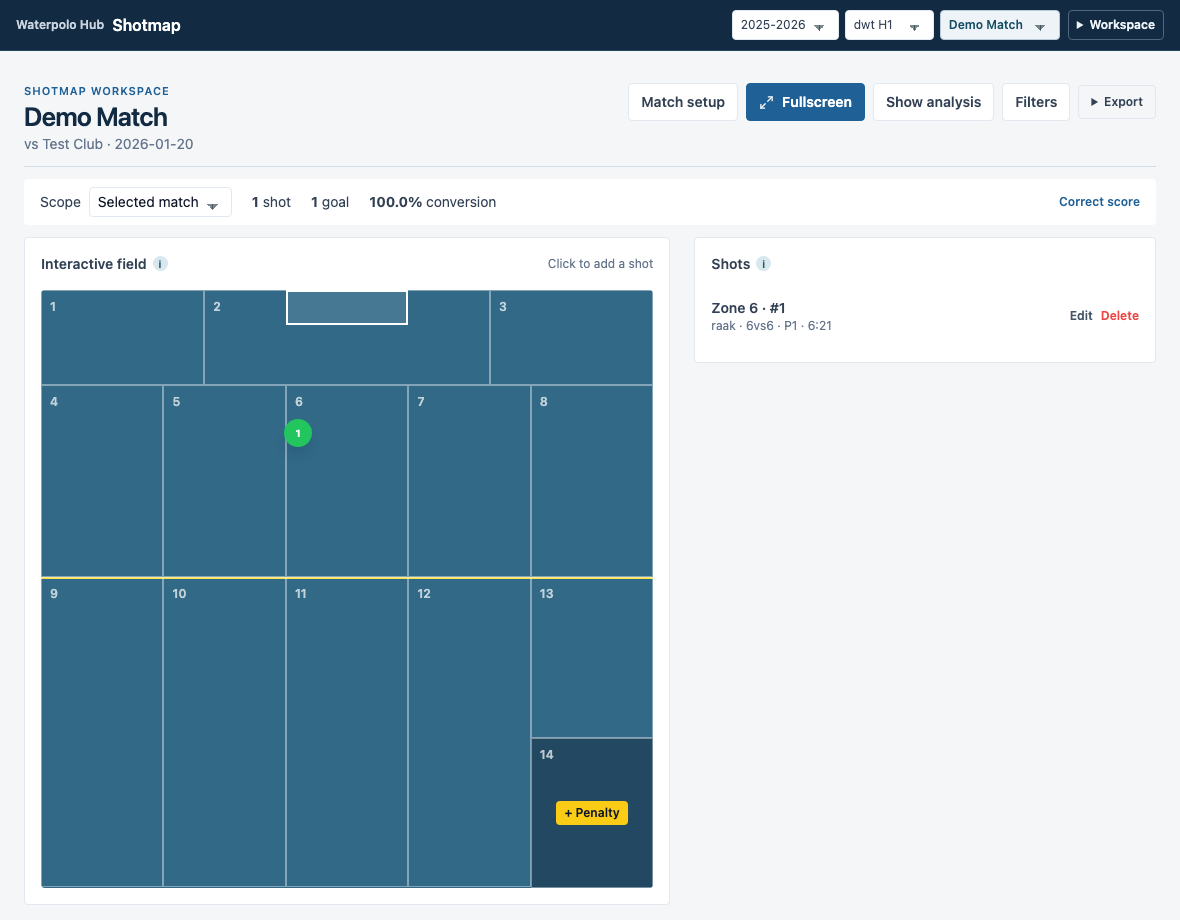
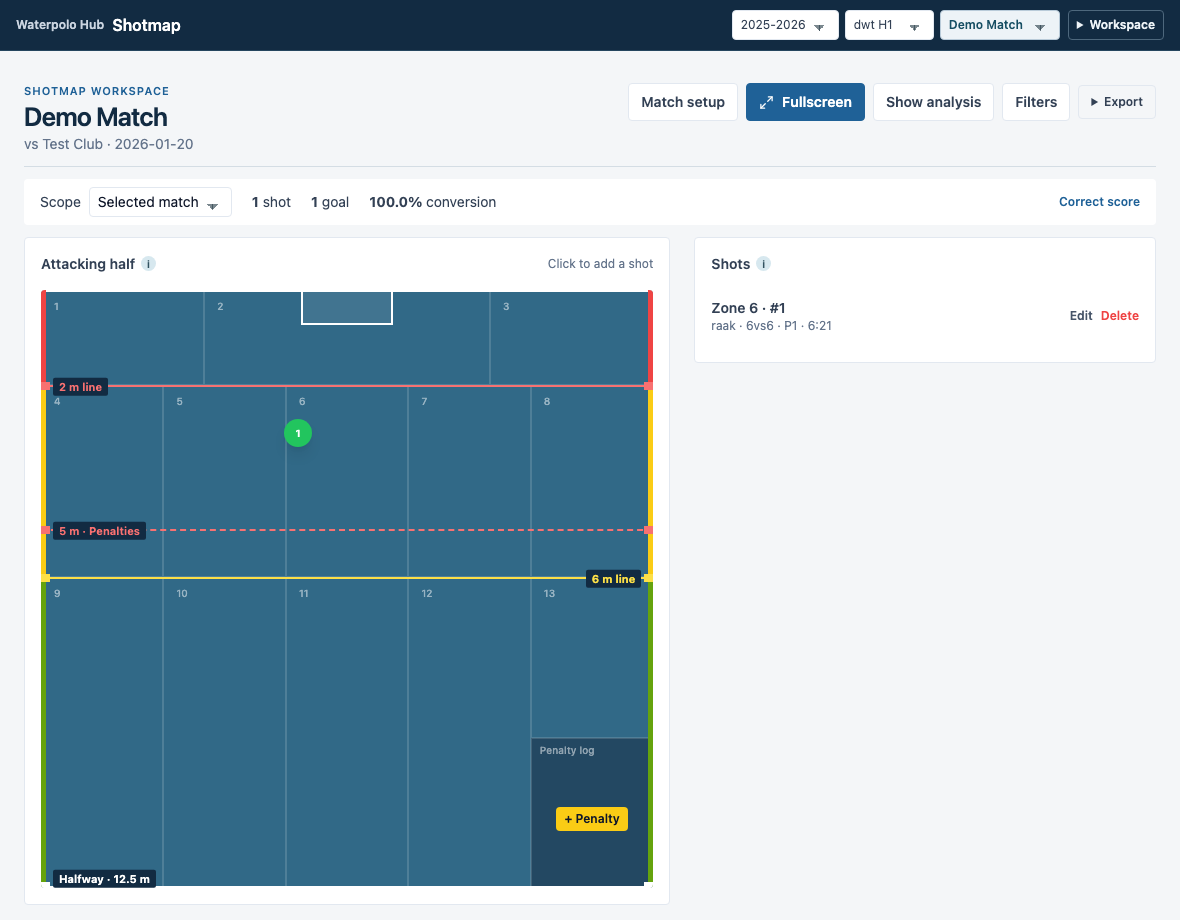
Add official water polo field markings

diff --git a/src/modules/shotmap/ShotmapView.jsx b/src/modules/shotmap/ShotmapView.jsx
@@ -8,10 +8,11 @@ import ModuleEmptyState from '../../components/ModuleEmptyState';
 import ModuleHeader from '../../components/ModuleHeader';
 import StatTooltipLabel from '../../components/StatTooltipLabel';
 import ToolbarButton from '../../components/ToolbarButton';
+import FieldMarkings from './FieldMarkings';
 
 const SHOTMAP_TOOLTIPS = {
   interactiveField:
-    'Click on the field to create a shot draft. Zone 14 is reserved for penalties via the + Penalty button.',
+    'Attacking half of a 25 m field, from goal to halfway (12.5 m). Colored guides show the official distances; actual pool markings are on the sides. The dashed 5 m guide is for penalties. Click to log a shot; use + Penalty for penalties.',
   result: 'Shot outcome: Goal (scored), Saved (keeper save), or Miss.',
   attackType: 'Situation at time of shot: even strength, powerplay, or penalty.',
   period: 'Quarter number in the match timeline.',
@@ -1047,7 +1048,7 @@ const ShotmapView = ({
             <div className="flex items-center justify-between">
               <h3 className={`text-sm font-semibold ${liveMode ? 'text-white' : 'text-slate-700'}`}>
                 <StatTooltipLabel
-                  label="Interactive field"
+                  label="Attacking half"
                   tooltip={SHOTMAP_TOOLTIPS.interactiveField}
                   enabled={showTooltips}
                 />
@@ -1065,13 +1066,10 @@ const ShotmapView = ({
                 }`}
                 onClick={handleFieldClick}
               >
-                <div className="absolute left-0 top-[48%] h-[2px] w-full bg-yellow-300" />
-                <div className="absolute left-[40%] top-0 h-[6%] w-[20%] border-2 border-white bg-white/10" />
-
                 {zones.map((zone) => (
                   <div
                     key={zone.id}
-                    className={`absolute border border-white/40 ${zone.id === 14 ? 'bg-slate-900/40' : ''}`}
+                    className={`absolute border border-white/15 ${zone.id === 14 ? 'bg-slate-900/40' : ''}`}
                     style={{
                       left: `${zone.left}%`,
                       top: `${zone.top}%`,
@@ -1079,11 +1077,11 @@ const ShotmapView = ({
                       height: `${zone.height}%`
                     }}
                   >
-                    <div className="absolute left-2 top-2 text-xs font-semibold text-white/70">
-                      {zone.label}
+                    <div className={`absolute text-[10px] font-medium text-white/50 ${zone.id === 14 ? 'left-2 top-1' : 'left-3 top-2'}`}>
+                      {zone.id === 14 ? 'Penalty log' : zone.label}
                     </div>
                     {zone.id === 14 && (
-                      <div className="absolute inset-0 grid grid-cols-3 place-items-center gap-1 p-2">
+                      <div className="absolute inset-0 grid grid-cols-3 place-items-center gap-1 p-2 pt-5">
                         <button
                           className={`col-span-3 rounded px-2 py-1 text-xs font-semibold ${
                             seasonMode
@@ -1102,6 +1100,8 @@ const ShotmapView = ({
                     )}
                   </div>
                 ))}
+
+                <FieldMarkings />
 
                 {filteredShots.map((shot) => {
                   const isPenalty = shot.attackType === 'strafworp';

diff --git a/src/index.css b/src/index.css
@@ -143,6 +143,26 @@ button:disabled { cursor: not-allowed; }
 .wp-module-header h2 { letter-spacing: -.025em; color: var(--navy); }
 .wp-shot-row:last-child { border-bottom: 0; }
 .wp-shot-row:hover { background: #f8fafb; }
+
+.wp-field-markings { position: absolute; inset: 0; pointer-events: none; }
+.wp-field-goal-line { position: absolute; inset: 0 0 auto; border-top: 2px solid #fff; }
+.wp-field-goal { position: absolute; left: 42.5%; top: 0; width: 15%; height: 6%; border: 2px solid #fff; background: rgba(255,255,255,.08); }
+.wp-field-rope { position: absolute; top: 0; bottom: 0; width: 5px; }
+.wp-field-rope-left { left: 0; }
+.wp-field-rope-right { right: 0; }
+.wp-field-guide { position: absolute; left: 0; right: 0; border-top: 2px solid; }
+.wp-field-guide::before, .wp-field-guide::after { content: ''; position: absolute; top: -5px; width: 9px; height: 8px; background: currentColor; }
+.wp-field-guide::before { left: 0; }
+.wp-field-guide::after { right: 0; }
+.wp-field-guide-two, .wp-field-guide-penalty { color: #f87171; }
+.wp-field-guide-penalty { border-top-style: dashed; }
+.wp-field-guide-six { color: #fde047; }
+.wp-field-guide-halfway { color: #fff; transform: translateY(-2px); }
+.wp-field-guide-label { position: absolute; top: 0; transform: translateY(-50%); padding: 2px 6px; border-radius: 2px; background: #122b42; font-size: 11px; font-weight: 650; line-height: 1.3; white-space: nowrap; }
+.wp-field-label-left { left: 12px; }
+.wp-field-label-right { right: 12px; }
+.wp-field-guide-halfway .wp-field-guide-label { transform: translateY(-100%); }
+.wp-field-guide-halfway::before, .wp-field-guide-halfway::after { top: -6px; }
 .wp-public-page { min-height: 100vh; padding: 64px 24px; background: #edf2f5; }
 .wp-public-layout { max-width: 1180px; margin: 0 auto; display: grid; grid-template-columns: minmax(0, 1.35fr) minmax(320px, 1fr); gap: 56px 80px; align-items: start; }
 .wp-brand { display: flex; align-items: center; gap: 10px; color: var(--navy); font-size: 18px; font-weight: 700; margin-bottom: 56px; }

diff --git a/tests/e2e/workflows.spec.js b/tests/e2e/workflows.spec.js
@@ -181,3 +181,30 @@ test('fullscreen fallback keeps season scope and exits cleanly', async ({ page }
   await expect(page.getByLabel('Shotmap scope')).toHaveValue('season');
   await expect(page.locator('body')).not.toHaveCSS('overflow', 'hidden');
 });
+
+test('field distance guides are labeled, positioned correctly, and allow shot entry', async ({ page }) => {
+  await openWorkspace(page);
+  const field = page.getByTestId('shotmap-field');
+  for (const [kind, fraction, label] of [
+    ['two', 0.16, '2 m line'],
+    ['penalty', 0.40, '5 m · Penalties'],
+    ['six', 0.48, '6 m line'],
+    ['halfway', 1, 'Halfway · 12.5 m']
+  ]) {
+    const line = page.getByTestId(`field-line-${kind}`);
+    await expect(line).toContainText(label);
+    const height = await field.evaluate((el) => el.clientHeight);
+    const offset = await line.evaluate((el) => parseFloat(getComputedStyle(el).top));
+    expect(Math.abs(offset / height - fraction)).toBeLessThan(0.005);
+  }
+  await expect(page.getByTestId('field-line-penalty')).toHaveCSS('border-top-style', 'dashed');
+  const box = await field.boundingBox();
+  await field.click({ position: { x: box.width / 2, y: box.height * 0.4 } });
+  await expect(page.getByRole('heading', { name: 'Shot details' })).toBeVisible();
+  await page.getByRole('button', { name: 'Close', exact: true }).click();
+  await page.setViewportSize({ width: 844, height: 390 });
+  await page.getByRole('button', { name: 'Fullscreen', exact: true }).click();
+  for (const kind of ['two', 'penalty', 'six', 'halfway']) {
+    await expect(page.getByTestId(`field-line-${kind}`).locator('span')).toBeInViewport();
+  }
+});

diff --git a/src/modules/shotmap/FieldMarkings.jsx b/src/modules/shotmap/FieldMarkings.jsx
@@ -1,0 +1,38 @@
+import React from 'react';
+
+// World Aquatics, February 2026: Part Six, 20.2, 16.2 and Appendix 1.
+// https://www.worldaquatics.com/news/3090417/competition-regulations
+// The existing shot coordinates span the attacking half of a 25 m field.
+const HALF_LENGTH_METRES = 12.5;
+const guides = [
+  { metres: 2, label: '2 m line', kind: 'two', side: 'left' },
+  { metres: 5, label: '5 m · Penalties', kind: 'penalty', side: 'left' },
+  { metres: 6, label: '6 m line', kind: 'six', side: 'right' },
+  { metres: HALF_LENGTH_METRES, label: 'Halfway · 12.5 m', kind: 'halfway', side: 'left' }
+];
+
+const FieldMarkings = () => (
+  <div className="wp-field-markings" aria-label="Attacking half: official distance markings for a 25 metre field">
+    <div className="wp-field-goal-line" />
+    <div className="wp-field-goal" aria-label="Goal" />
+    {['left', 'right'].map((side) => (
+      <div key={side} className={`wp-field-rope wp-field-rope-${side}`}>
+        <div style={{ height: '16%', background: '#ef4444' }} />
+        <div style={{ height: '32%', background: '#facc15' }} />
+        <div style={{ height: '52%', background: '#65a30d' }} />
+      </div>
+    ))}
+    {guides.map(({ metres, label, kind, side }) => (
+      <div
+        key={kind}
+        data-testid={`field-line-${kind}`}
+        className={`wp-field-guide wp-field-guide-${kind}`}
+        style={{ top: `${(metres / HALF_LENGTH_METRES) * 100}%` }}
+      >
+        <span className={`wp-field-guide-label wp-field-label-${side}`}>{label}</span>
+      </div>
+    ))}
+  </div>
+);
+
+export default FieldMarkings;
